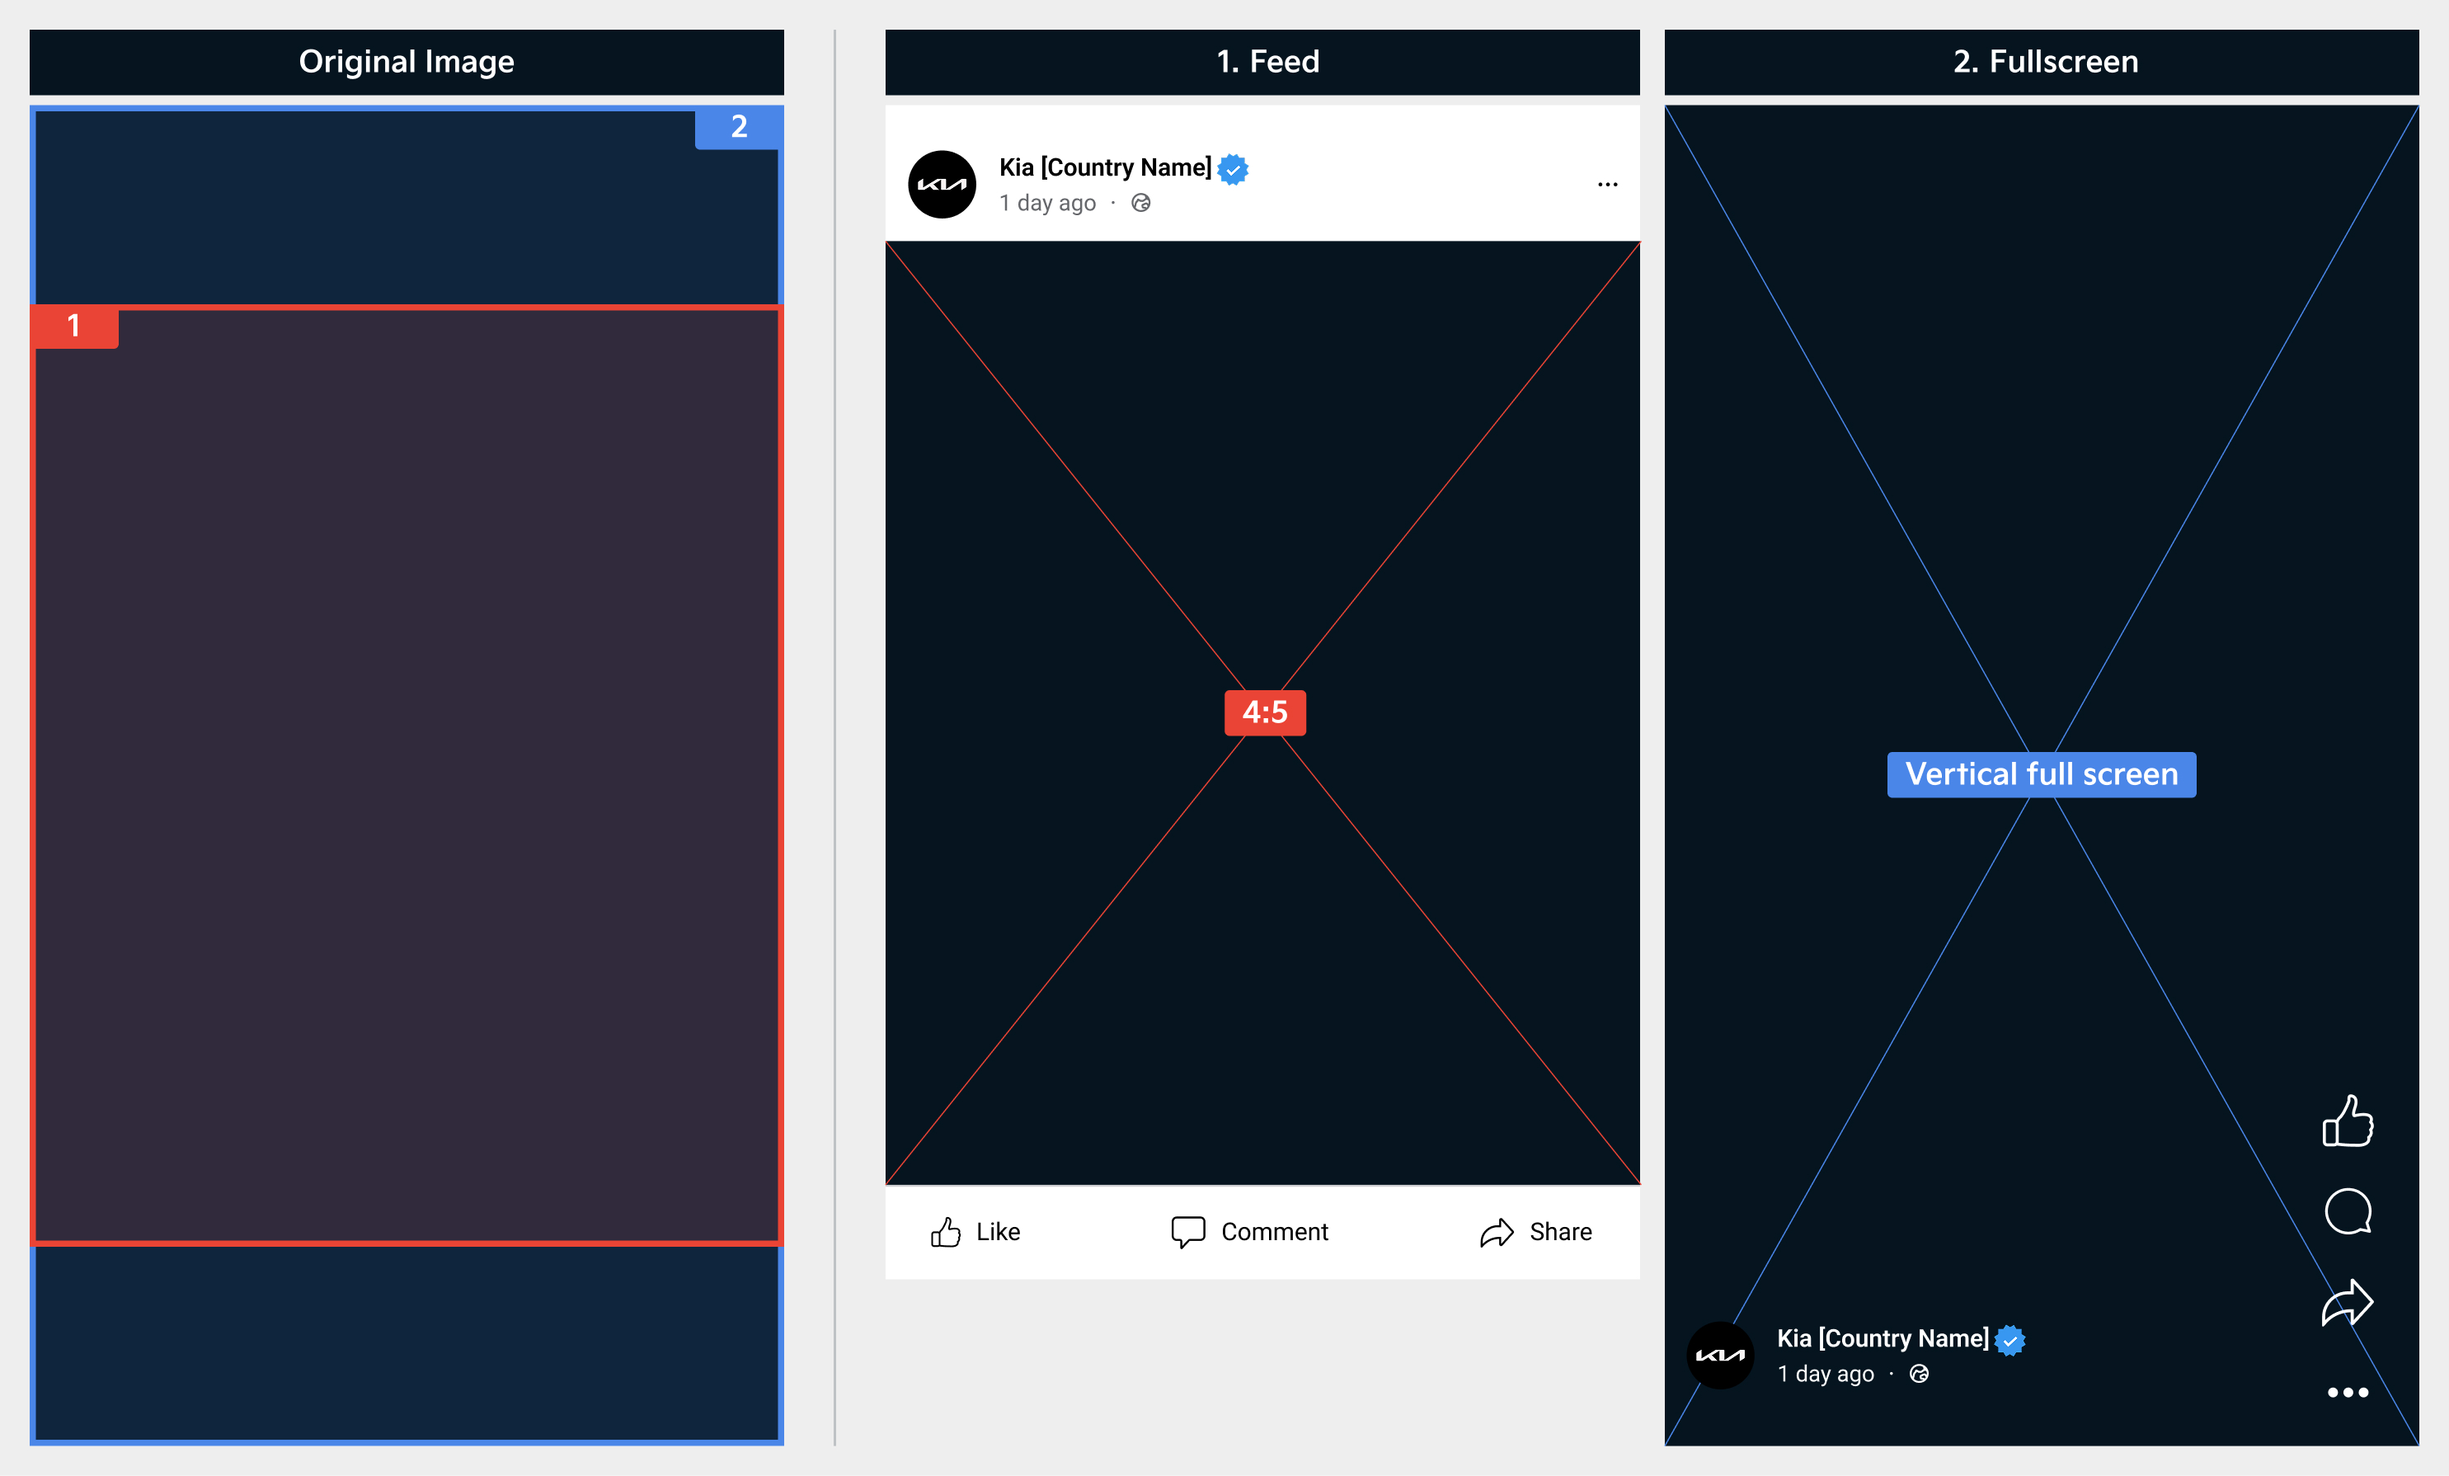
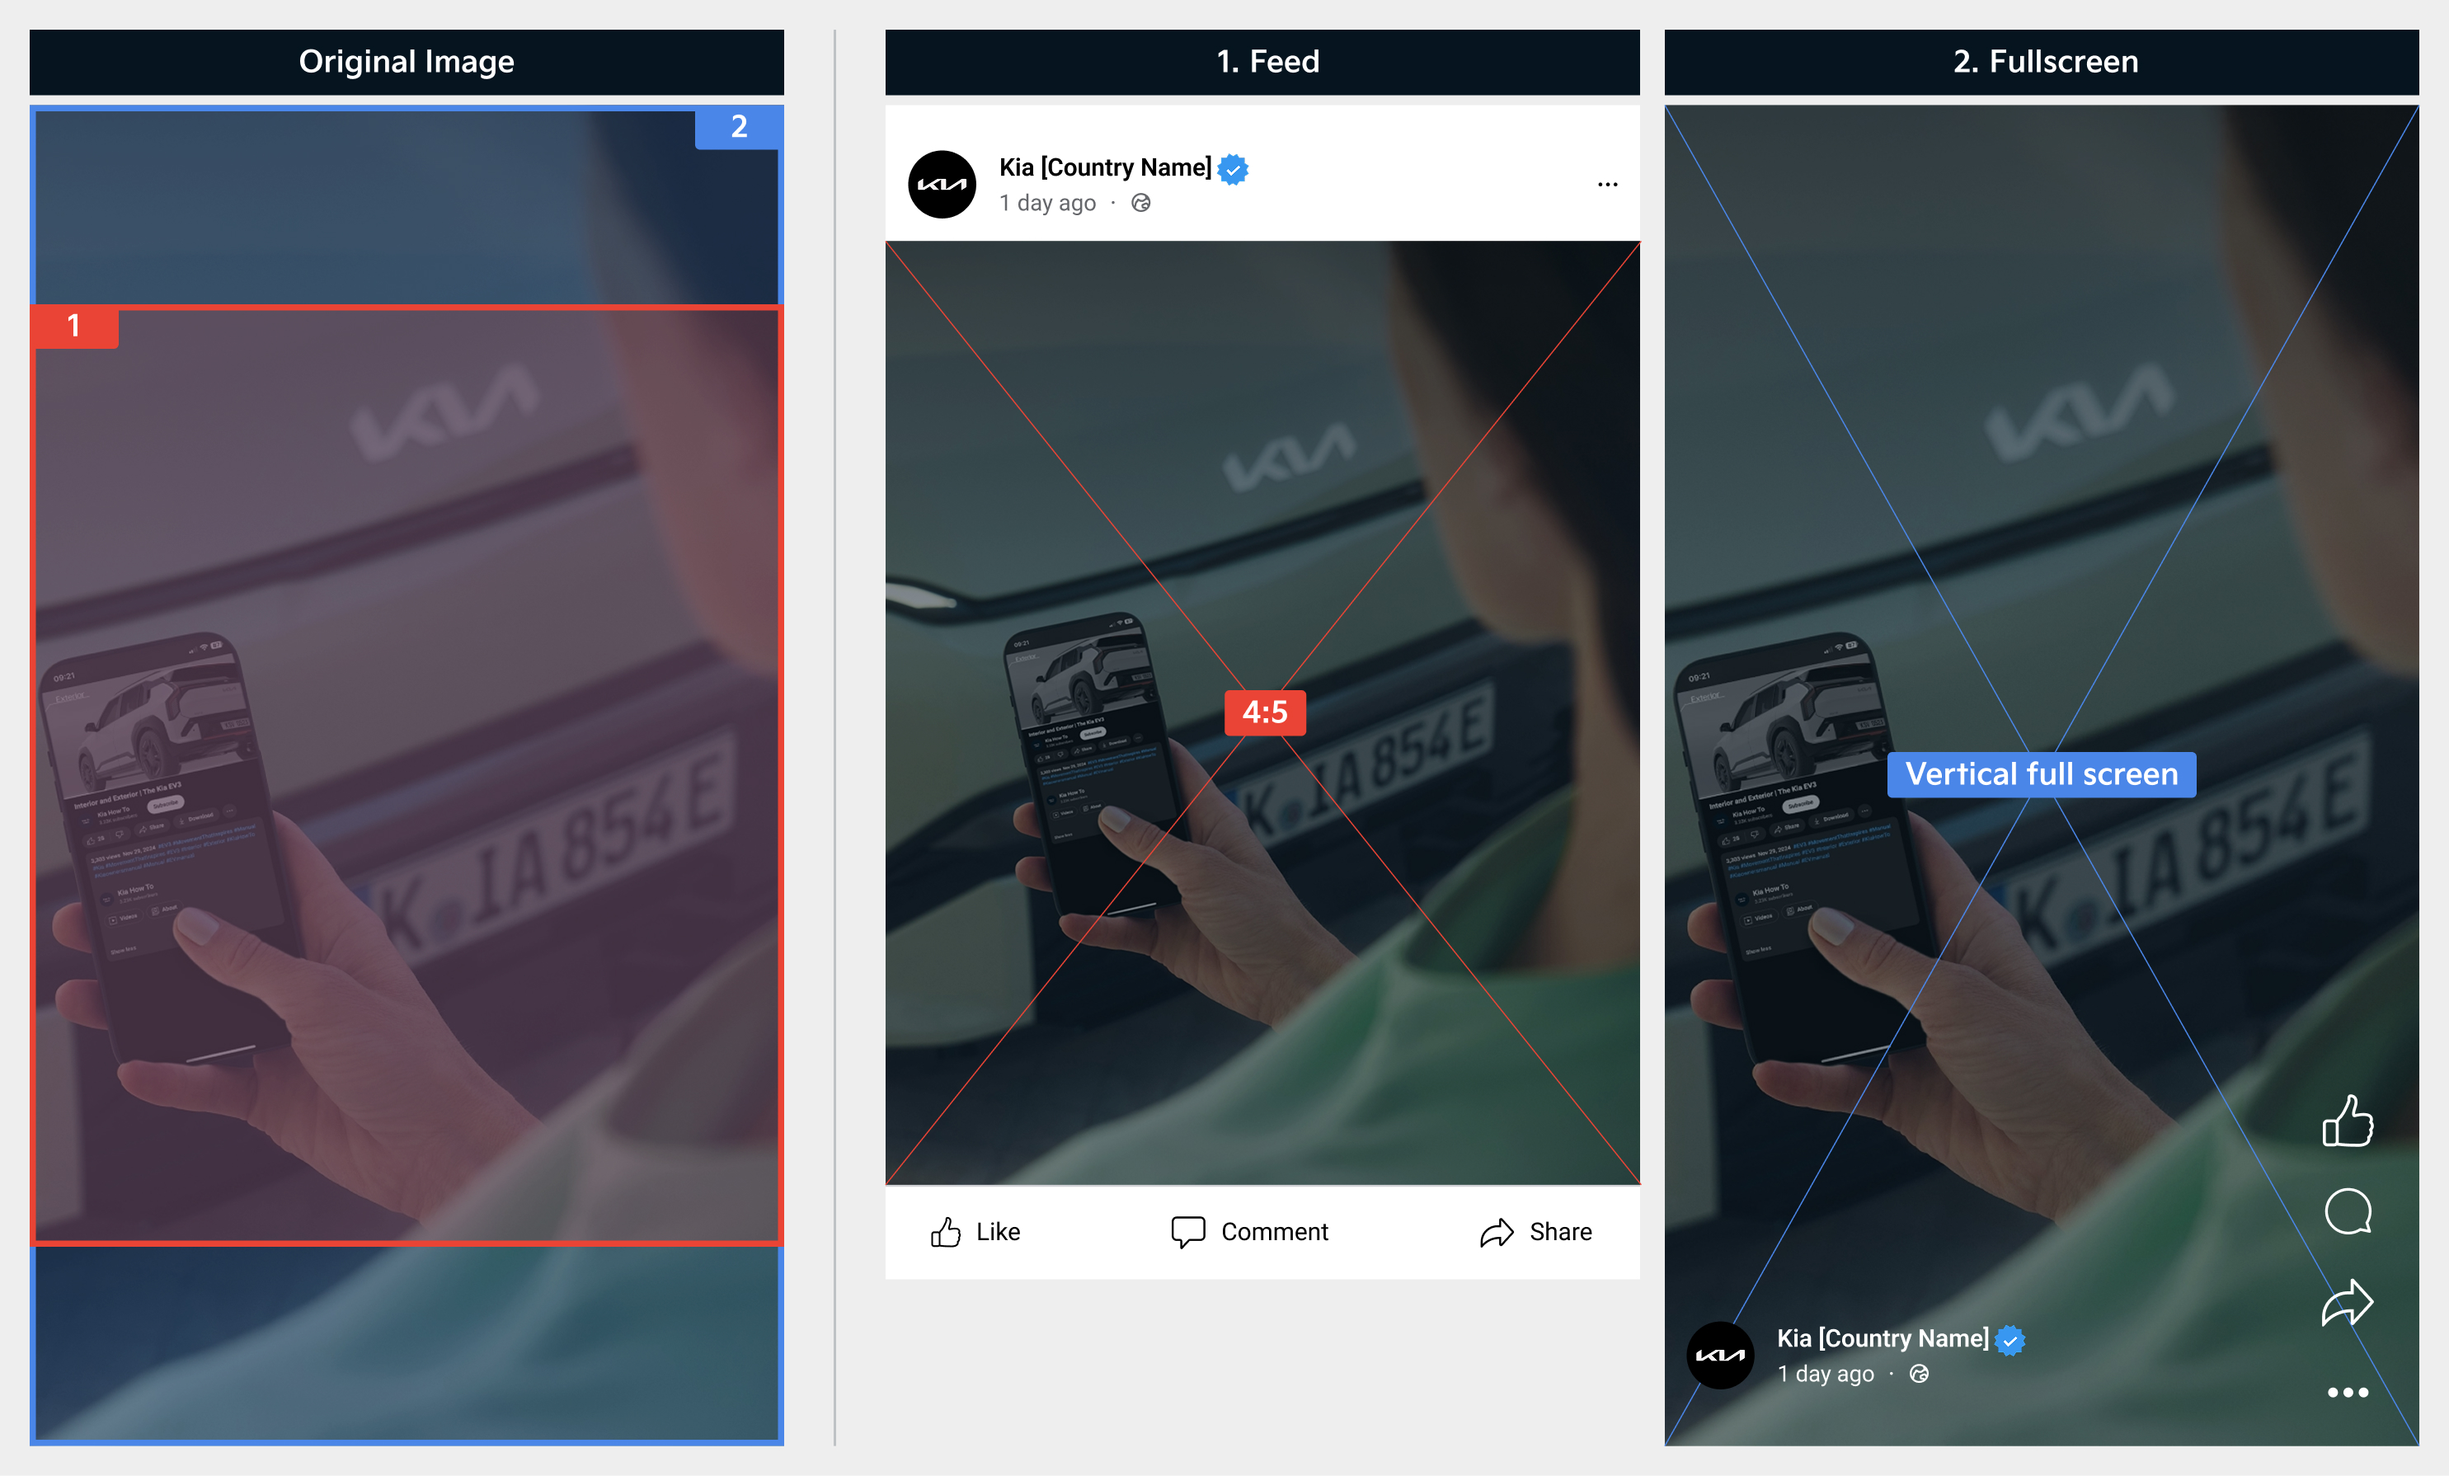
GITBOOK-58: No subject

diff --git a/guide/production-guidelines/facebook/video-thumbnail.md b/guide/production-guidelines/facebook/video-thumbnail.md
@@ -21,7 +21,7 @@ Thumbnails will be shown in the following aspect ratios.
 
 #### 16:9 Video
 
-<figure><img src="../../../.gitbook/assets/FB-video-ratio-16;9.jpg" alt=""><figcaption></figcaption></figure>
+<figure><img src="../../../.gitbook/assets/FB-video-ratio-16;9 (1).jpg" alt=""><figcaption></figcaption></figure>
 
 ***
 
@@ -49,11 +49,15 @@ An original image (9:16) is shown in a 4:5 ratio in the Feed.
 
 <figure><img src="../../../.gitbook/assets/FB-video-thumbnail-4;5.jpg" alt=""><figcaption></figcaption></figure>
 
+<figure><img src="../../../.gitbook/assets/ex-FB-video-thumbnail-4;5.jpg" alt=""><figcaption></figcaption></figure>
+
 #### 16:9 Video
 
 It is shown in the same aspect ratio as that of the original image (16:9).
 
 <figure><img src="../../../.gitbook/assets/FB-video-thumbnail-16;9.jpg" alt=""><figcaption></figcaption></figure>
+
+<figure><img src="../../../.gitbook/assets/ex-FB-video-thumbnail-16;9 (1).jpg" alt=""><figcaption></figcaption></figure>
 
 {% hint style="info" %}
 You can place text in all areas except for the margin and text is recommended to be left- or center-aligned.

diff --git a/guide/production-guidelines/x/image.md b/guide/production-guidelines/x/image.md
@@ -30,6 +30,8 @@ It is displayed in its original aspect ratio (1:1).
 
 <figure><img src="../../../.gitbook/assets/X-image-single.jpg" alt=""><figcaption></figcaption></figure>
 
+<figure><img src="../../../.gitbook/assets/ex-X-image-single.jpg" alt=""><figcaption></figcaption></figure>
+
 #### **Two or Three Images**
 
 An original image (1:1) is displayed in a 9:10 aspect ratio.
@@ -37,6 +39,8 @@ An original image (1:1) is displayed in a 9:10 aspect ratio.
 <figure><img src="../../../.gitbook/assets/X-image-2&#x26;3.jpg" alt=""><figcaption></figcaption></figure>
 
 #### Four Images
+
+<figure><img src="../../../.gitbook/assets/ex-X-image-2&#x26;3.jpg" alt=""><figcaption></figcaption></figure>
 
 An original image (1:1) is displayed in a 16:9 aspect ratio.
 
